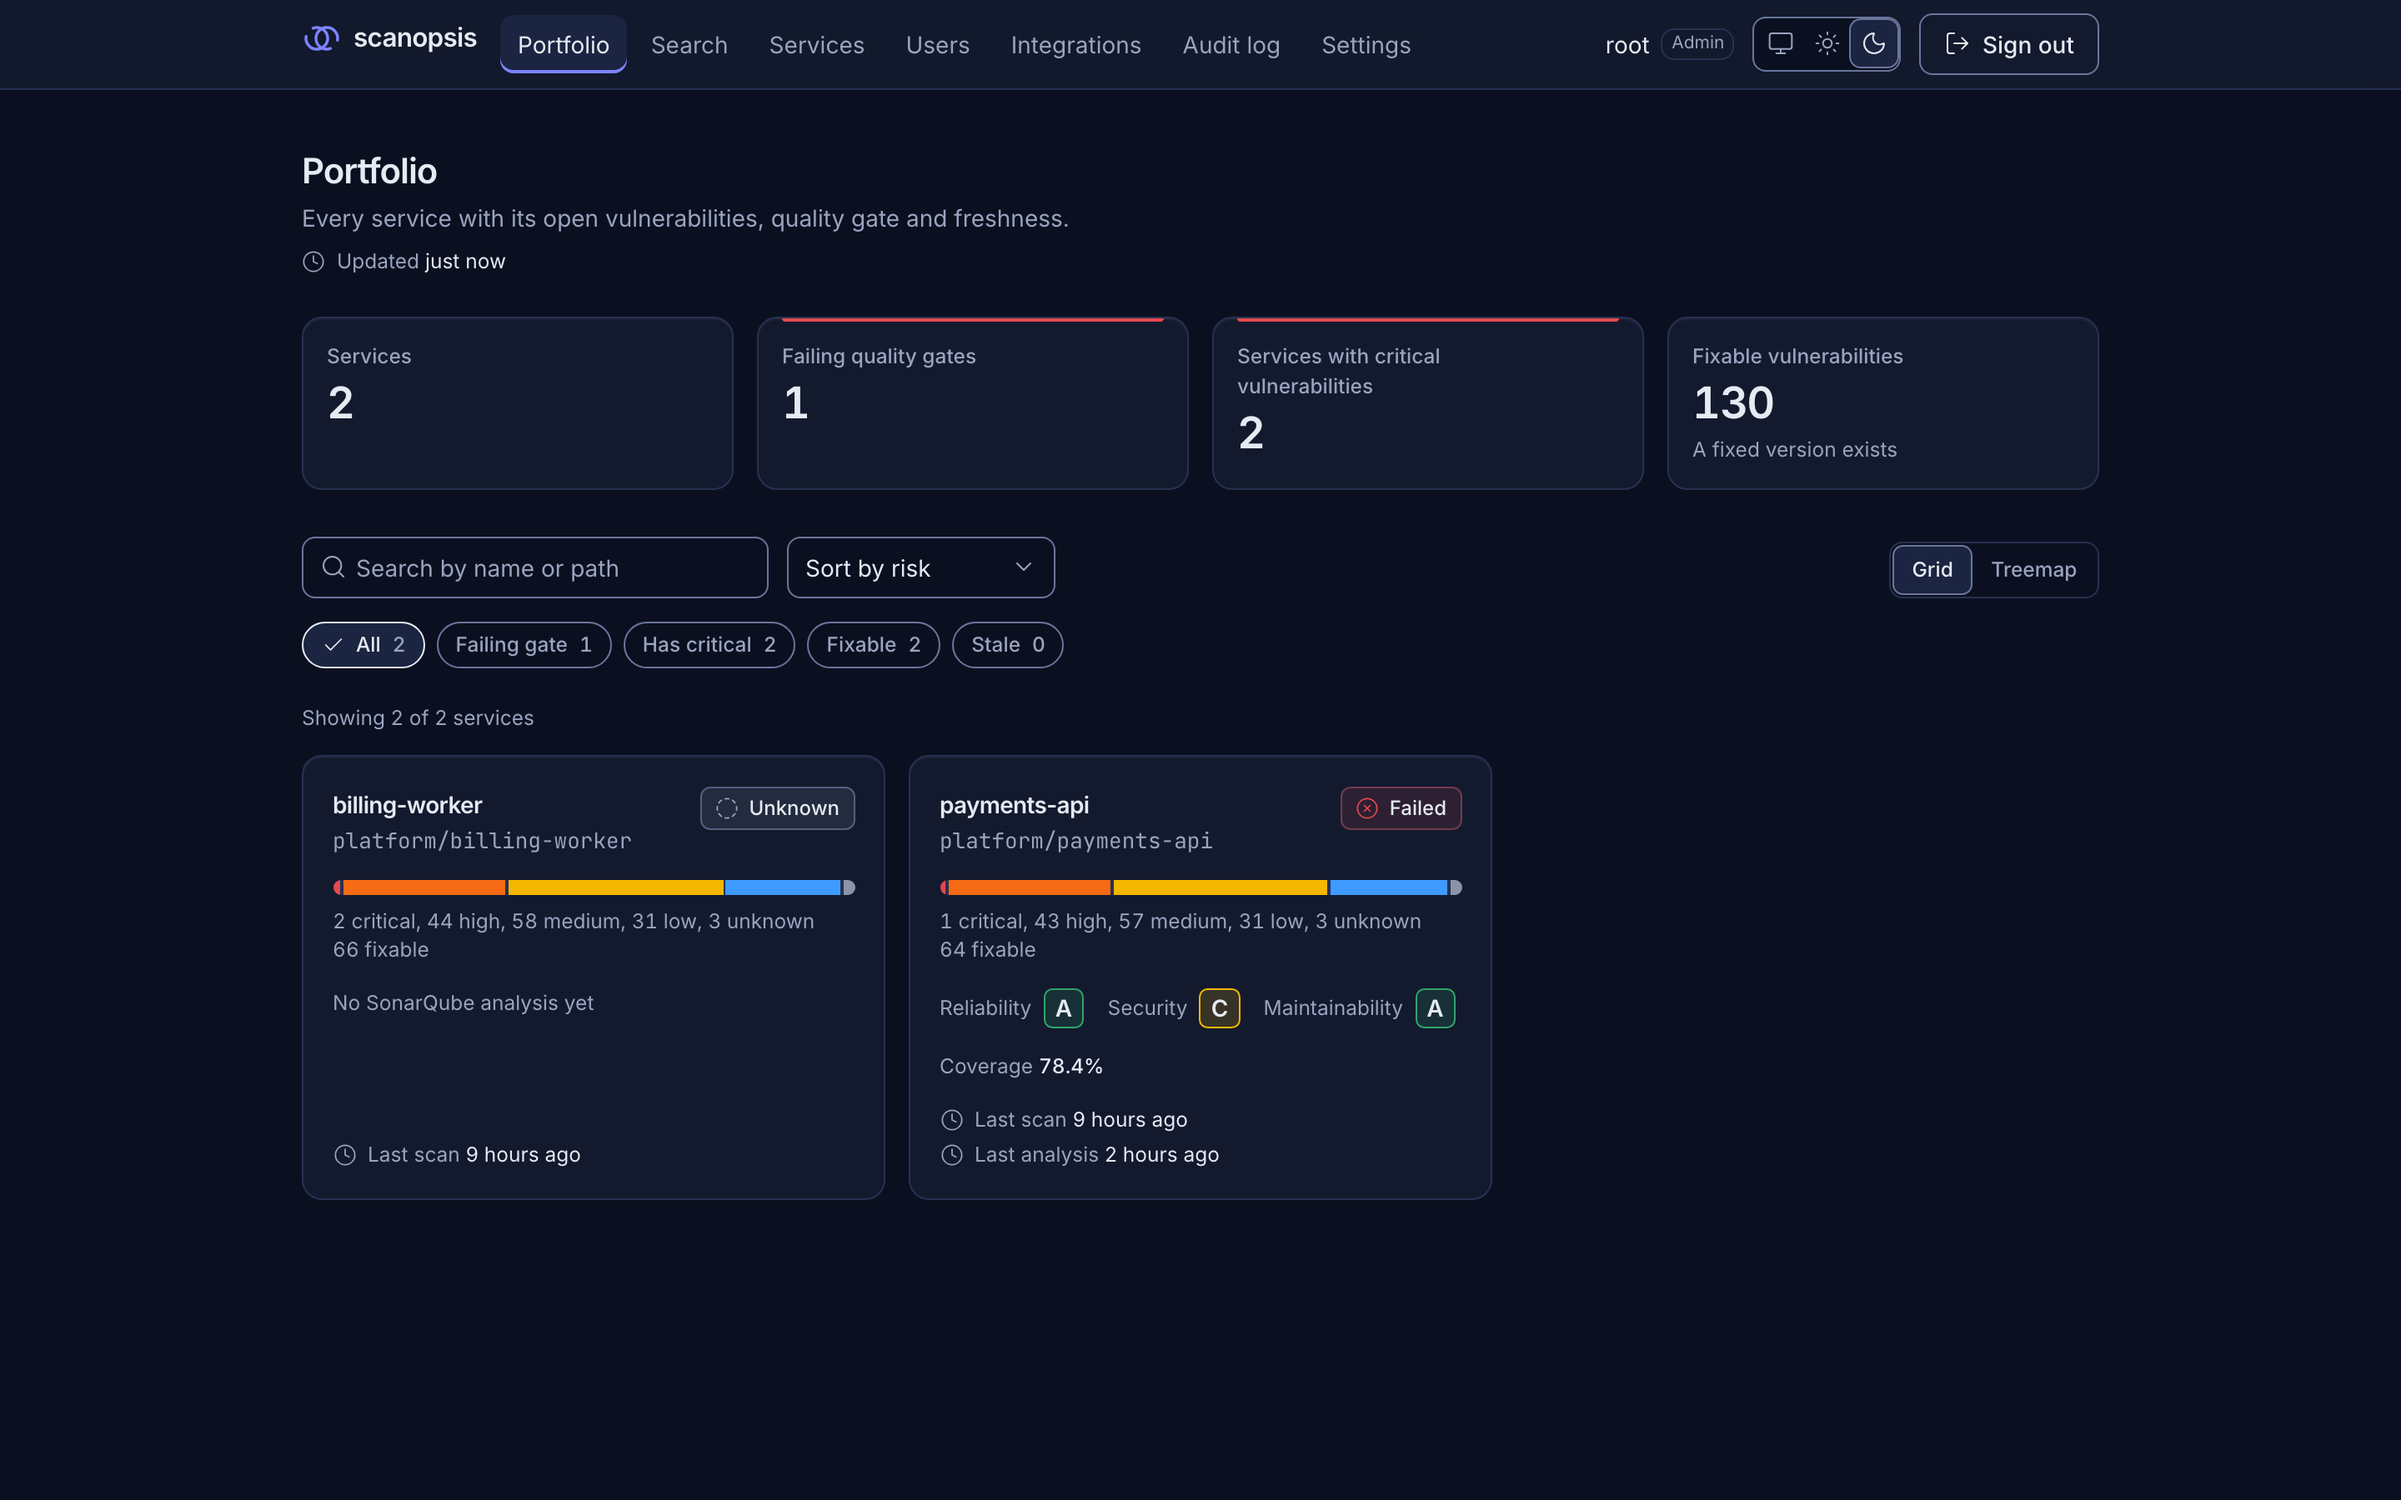
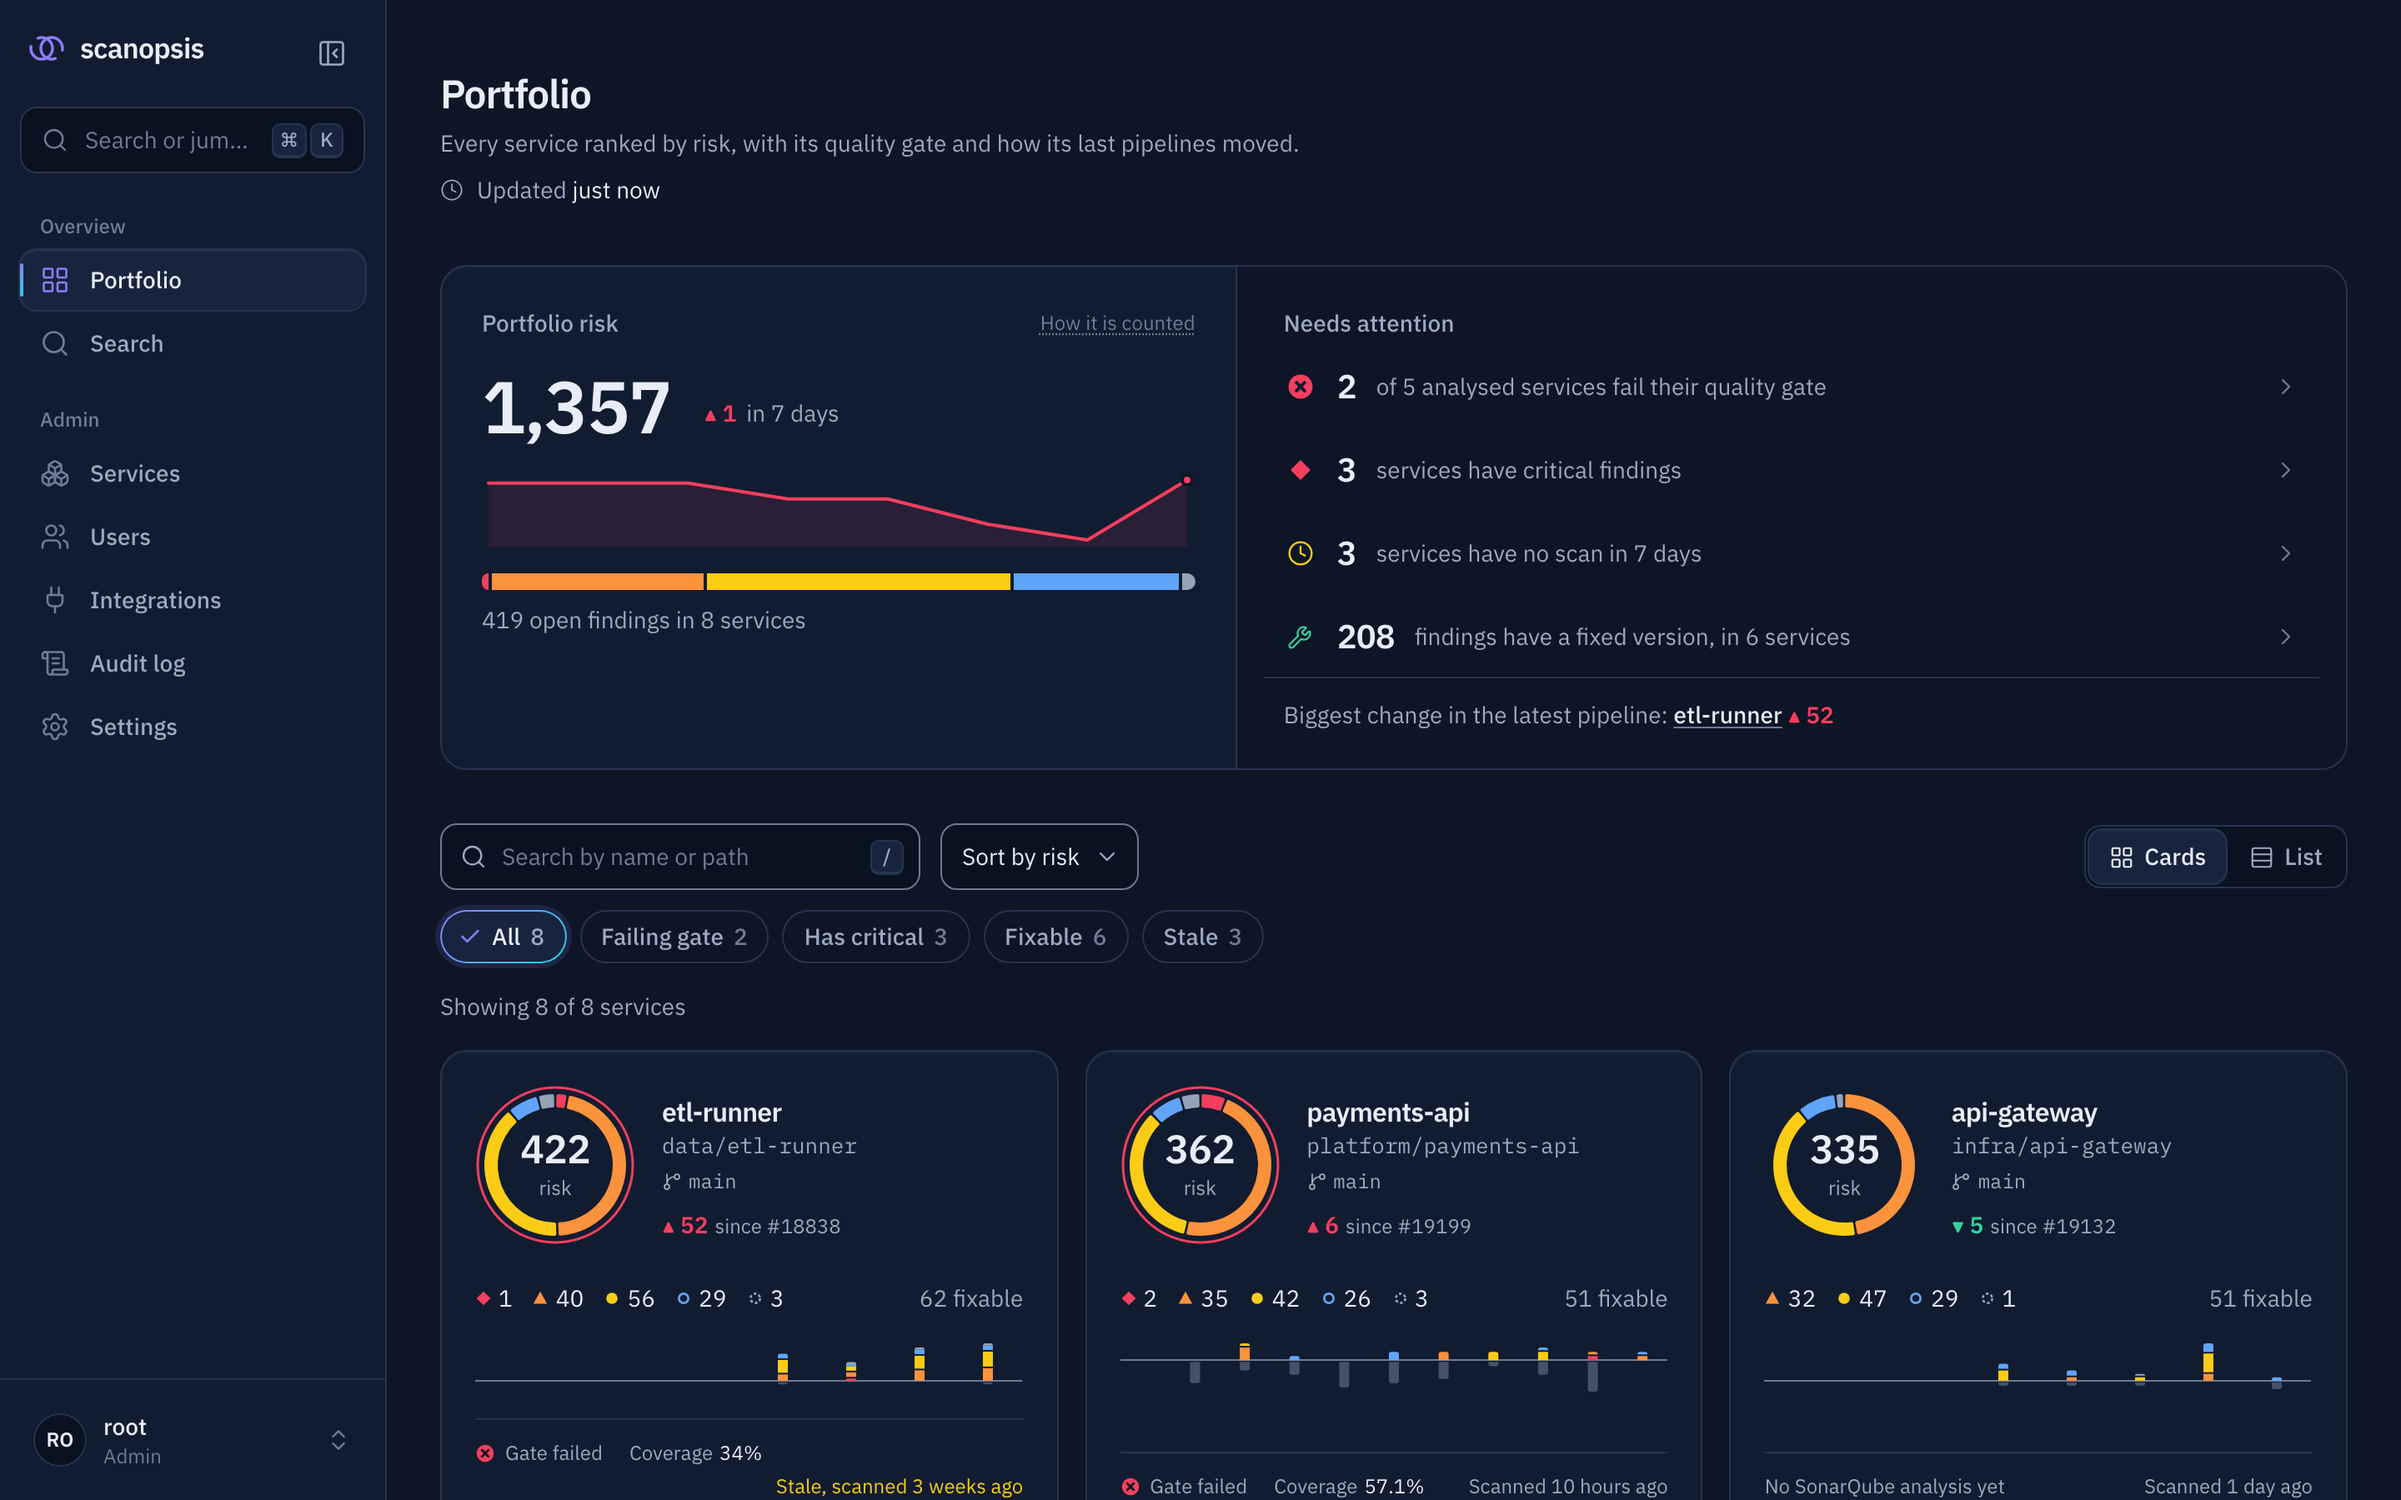
docs: show the redesigned dashboard in the README screenshots
Replace the three screenshots with the redesigned pages, taken at twice
the pixel density from a stack with several services and 90 days of
pipelines: the service dashboard of payments-api with its risk ring and
pipeline strip, the portfolio with its summary and service cards, and
the portfolio's cards on a phone in the light theme.

The alt texts describe what each image now shows; the one at the top no
longer speaks of findings next to ratings and coverage, which the
dashboard no longer leads with.

diff --git a/README.md b/README.md
@@ -27,7 +27,7 @@ results as the pipelines run and shows them together, per service and across
 all services, so you can answer "which services need attention?" in seconds
 instead of clicking through job logs and SonarQube projects.
 
-![The service dashboard in the dark theme: Trivy findings by severity next to the SonarQube quality gate, ratings and coverage](docs/images/service-dark.png)
+![The service dashboard of payments-api in the dark theme: a risk ring around the risk score with the failed quality gate, a one-line verdict of what changed since the previous pipeline, and the pipeline strip with new and fixed findings per pipeline, gate results and coverage on new code](docs/images/service-dark.png)
 
 > **Status:** the newest version is **0.3.0** (branch `release/0.3.0`, tag
 > `v0.3.0`). It is an early version: every feature below works and is tested
@@ -129,8 +129,8 @@ flowchart LR
 ## Screenshots
 
 <p>
-  <img src="docs/images/portfolio-dark.png" alt="The portfolio in the dark theme, with a card per service" width="68%">
-  <img src="docs/images/portfolio-light-phone.png" alt="The portfolio in the light theme on a phone" width="22%">
+  <img src="docs/images/portfolio-dark.png" alt="The portfolio in the dark theme: the portfolio risk and what needs attention above a card per service with its risk ring, findings by severity and recent pipelines" width="68%">
+  <img src="docs/images/portfolio-light-phone.png" alt="The portfolio in the light theme on a phone: search, sort and filters above the service cards" width="22%">
 </p>
 
 The portfolio in the dark theme, and in the light theme on a phone. The
